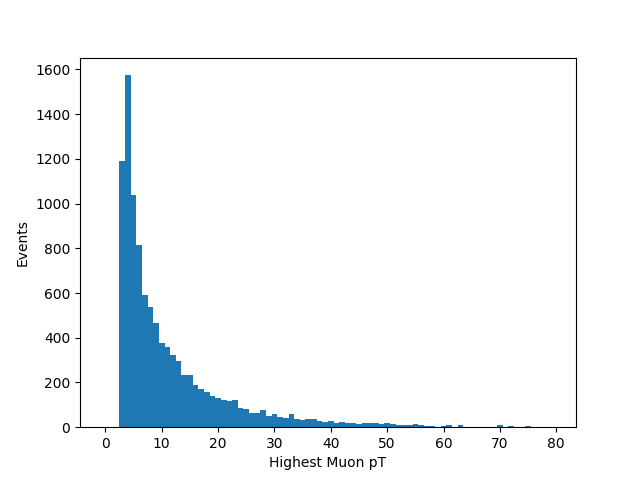
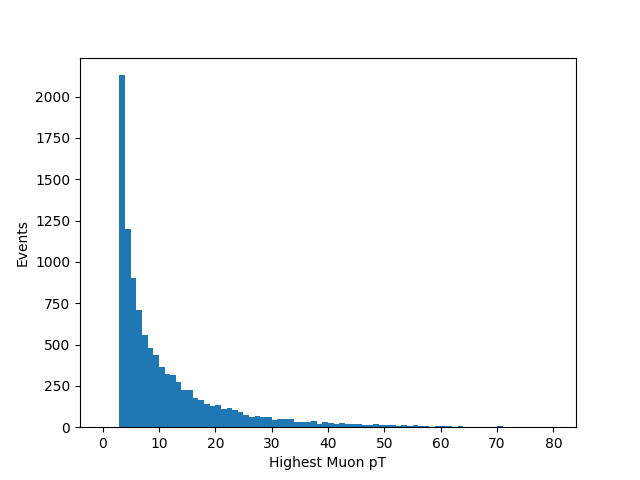
updated plot binning and adjusted G/R jet pt

diff --git a/n00dle.py b/n00dle.py
@@ -77,17 +77,19 @@ def ana(files):
     plots = {
         "bphi":     Hist(66,(-3.3,3.3),'GEN b Phi','Events','upplots/bphi'),
         "bdR":      Hist(100,(-0.005,1.995),'GEN b to matched jet dR','Events','upplots/bdR'),
-        "RjetpT":   Hist(100,(-0.5,99.5),'All RECO jet pT','Events','upplots/RjetpT'),
-        "GoverRjetpT":  Hist(100,(-0.005,.995),'jet pT','Ratio of GEN b pT / RECO jet pT for matched jets','upplots/GRjetpT'),
-        "bdRvlogbpT1":   Hist2d([80,100],[[-0.05,7.95],[-0.00005,.00995]],'log2(GEN b pT)','dR from 1st pT GEN b to matched RECO jet','upplots/bdRvlogbpT1'),
-        "bdRvlogbpT2":   Hist2d([80,100],[[-0.05,7.95],[-0.00005,.00995]],'log2(GEN b pT)','dR from 2nd pT GEN b to matched RECO jet','upplots/bdRvlogbpT2'),
-        "bdRvlogbpT3":   Hist2d([80,100],[[-0.05,7.95],[-0.00005,.00995]],'log2(GEN b pT)','dR from 3rd pT GEN b to matched RECO jet','upplots/bdRvlogbpT3'),
-        "bdRvlogbpT4":   Hist2d([80,100],[[-0.05,7.95],[-0.00005,.00995]],'log2(GEN b pT)','dR from 4th pT GEN b to matched RECO jet','upplots/bdRvlogbpT4'),
-        "jetoverbpTvlogbpT1":    Hist2d([80,50],[[-0.05,7.95],[-0.05,4.95]],'log2(GEN b pT)','RECO jet pT / 1st GEN b pT for matched jets','upplots/jetoverbpTvlogbpT1'),
-        "jetoverbpTvlogbpT2":    Hist2d([80,50],[[-0.05,7.95],[-0.05,4.95]],'log2(GEN b pT)','RECO jet pT / 2nd GEN b pT for matched jets','upplots/jetoverbpTvlogbpT2'),
-        "jetoverbpTvlogbpT3":    Hist2d([80,50],[[-0.05,7.95],[-0.05,4.95]],'log2(GEN b pT)','RECO jet pT / 3rd GEN b pT for matched jets','upplots/jetoverbpTvlogbpT3'),
-        "jetoverbpTvlogbpT4":    Hist2d([80,50],[[-0.05,7.95],[-0.05,4.95]],'log2(GEN b pT)','RECO jet pT / 4th GEN b pT for matched jets','upplots/jetoverbpTvlogbpT4'),
+        "RjetpT":   Hist(100,(0,100),'All RECO jet pT','Events','upplots/RjetpT'),
+        "GoverRjetpT":  Hist(100,(0,100),'jet pT','Ratio of GEN b pT / RECO jet pT for matched jets','upplots/GRjetpT'),
+        "bdRvlogbpT1":   Hist2d([80,100],[[0,8],[0,.01]],'log2(GEN b pT)','dR from 1st pT GEN b to matched RECO jet','upplots/bdRvlogbpT1'),
+        "bdRvlogbpT2":   Hist2d([80,100],[[0.,8],[0,.01]],'log2(GEN b pT)','dR from 2nd pT GEN b to matched RECO jet','upplots/bdRvlogbpT2'),
+        "bdRvlogbpT3":   Hist2d([80,100],[[0.,8],[0,.01]],'log2(GEN b pT)','dR from 3rd pT GEN b to matched RECO jet','upplots/bdRvlogbpT3'),
+        "bdRvlogbpT4":   Hist2d([80,100],[[0.,8],[0,.01]],'log2(GEN b pT)','dR from 4th pT GEN b to matched RECO jet','upplots/bdRvlogbpT4'),
+        "jetoverbpTvlogbpT1":    Hist2d([80,50],[[0,8],[0,5]],'log2(GEN b pT)','RECO jet pT / 1st GEN b pT for matched jets','upplots/jetoverbpTvlogbpT1'),
+        "jetoverbpTvlogbpT2":    Hist2d([80,50],[[0,8],[0,5]],'log2(GEN b pT)','RECO jet pT / 2nd GEN b pT for matched jets','upplots/jetoverbpTvlogbpT2'),
+        "jetoverbpTvlogbpT3":    Hist2d([80,50],[[0,8],[0,5]],'log2(GEN b pT)','RECO jet pT / 3rd GEN b pT for matched jets','upplots/jetoverbpTvlogbpT3'),
+        "jetoverbpTvlogbpT4":    Hist2d([80,50],[[0,8],[0,5]],'log2(GEN b pT)','RECO jet pT / 4th GEN b pT for matched jets','upplots/jetoverbpTvlogbpT4'),
     }
+    GjetpT = Hist(100,(0,100))
+    RjetpT = Hist(100,(0,100))
     ## Create an internal figure for pyplot to write to
     plt.figure(1)
     ## Loop over input files
@@ -169,8 +171,8 @@ def ana(files):
             xval = np.log2(bs.pt[[i+1]]).melt(value_name=0).drop('variable',axis=1).dropna().reset_index(drop=True)[0]
             plots['jetoverbpTvlogbpT'+str(i+1)].fill(xval,yval)
 
-            
-            plots['GoverRjetpT'].dfill(np.divide(blist[i],jets.pt))
+            GjetpT.dfill(bs.pt[[i+1]])
+            RjetpT.dfill(jets.pt[blist[i]>0])
 
             bjplots['bpT'+str(i+1)].dfill(bs.pt[[i+1]])
             bjplots['beta'+str(i+1)].dfill(bs.eta[[i+1]])
@@ -181,6 +183,7 @@ def ana(files):
         plots['bdR'].dfill(np.sqrt(bjdr2[bjdr2!=0]))
         plots['bphi'].dfill(bs.phi)#.melt(value_name=0).drop('variable',axis=1).dropna().reset_index(drop=True)[0])
         plots['RjetpT'].dfill(jets.pt)
+        plots['GoverRjetpT'].add(GjetpT.divideby(RjetpT,split=True))
     plt.clf()
     plots.pop('bdR').plot(logv=True)
     for p in plots:
@@ -210,12 +213,12 @@ def ana(files):
 def trig(files):
     ## Create a dictionary of histogram objects
     plots = {
-        'hptplot':      Hist(80,(-0.5,79.5),'Highest Muon pT','Events','upplots/TrigHpTplot'),
-        'ptplot':       Hist(80,(-0.5,79.5),'Highest Muon pT','Events','upplots/TrigpTplot'),
-        'ratioptplot':  Hist(80,(-0.5,79.5),'Highest Muon pT','HLT_Mu7_IP4 / Events with Muons of sip > 5','upplots/TrigRatiopTPlot'),
-        'sipplot':      Hist(20,(-0.5,19.5),'Highest Muon SIP', 'Events', 'upplots/TrigSIPplot'),
-        'hsipplot':     Hist(20,(-0.5,19.5),'Highest Muon SIP', 'Events', 'upplots/TrigHSIPplot'),
-        'ratiosipplot': Hist(20,(-0.5,19.5),'Highest Muon SIP', 'HLT_Mu7_IP4 / Events with muons of sip > 5', 'upplots/TrigRatioSIPplot')
+        'hptplot':      Hist(80,(0,80),'Highest Muon pT','Events','upplots/TrigHpTplot'),
+        'ptplot':       Hist(80,(0,80),'Highest Muon pT','Events','upplots/TrigpTplot'),
+        'ratioptplot':  Hist(80,(0,80),'Highest Muon pT','HLT_Mu7_IP4 / Events with Muons of sip > 5','upplots/TrigRatiopTPlot'),
+        'sipplot':      Hist(20,(0,20),'Highest Muon SIP', 'Events', 'upplots/TrigSIPplot'),
+        'hsipplot':     Hist(20,(0,20),'Highest Muon SIP', 'Events', 'upplots/TrigHSIPplot'),
+        'ratiosipplot': Hist(20,(0,20),'Highest Muon SIP', 'HLT_Mu7_IP4 / Events with muons of sip > 5', 'upplots/TrigRatioSIPplot')
     }
     ## Create an internal figure for pyplot to write to
     plt.figure(1)
